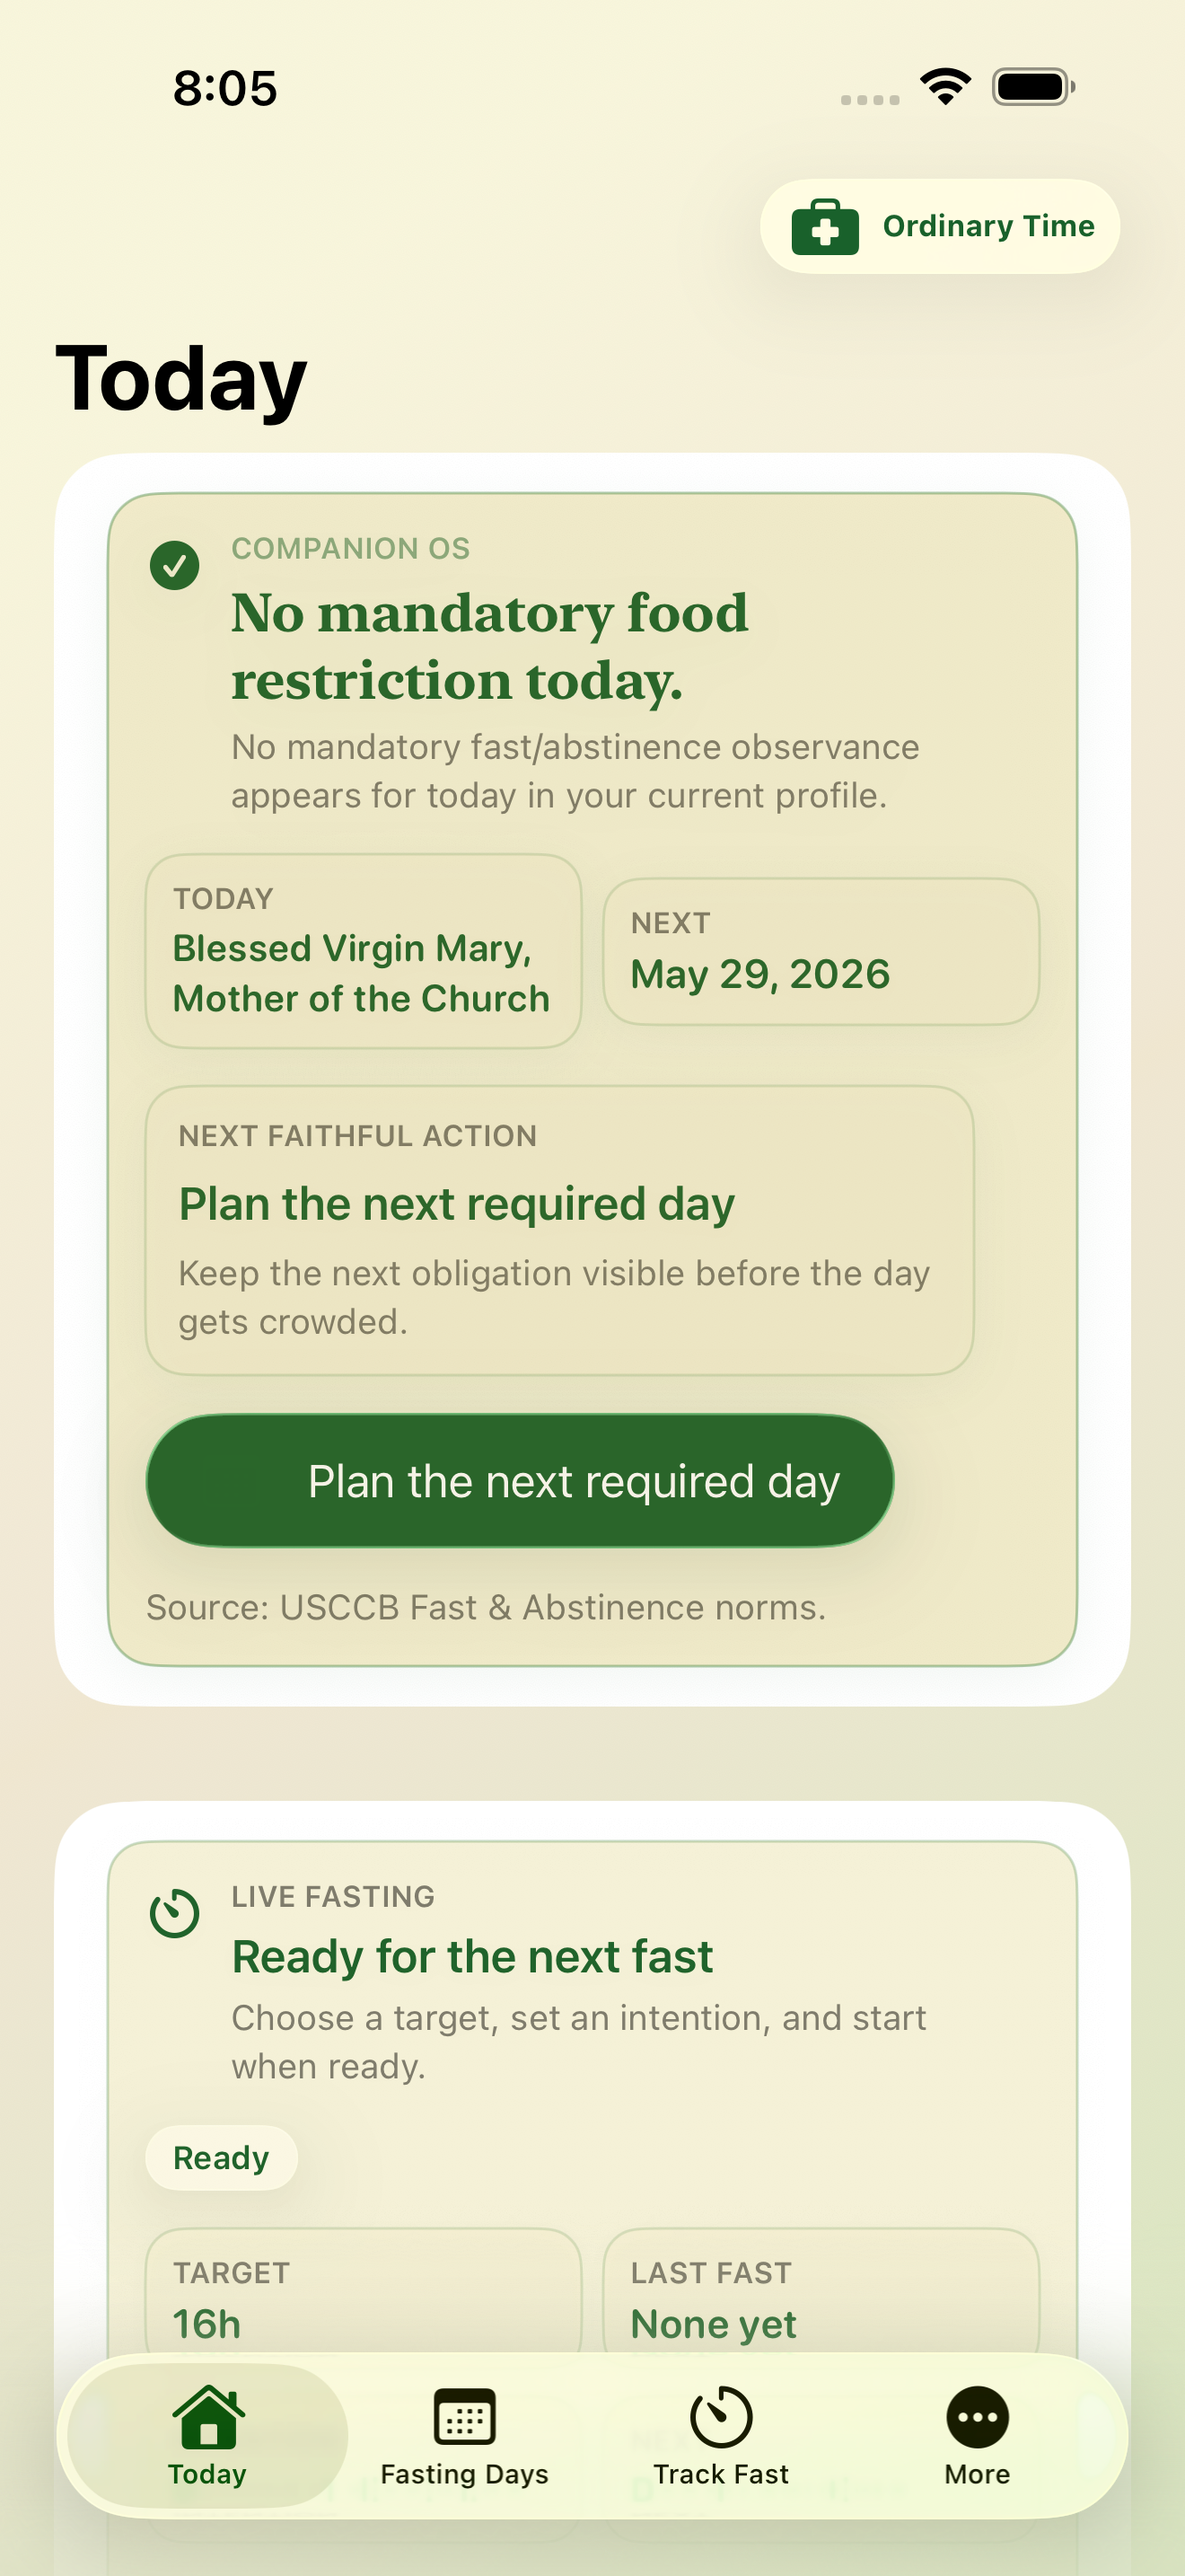
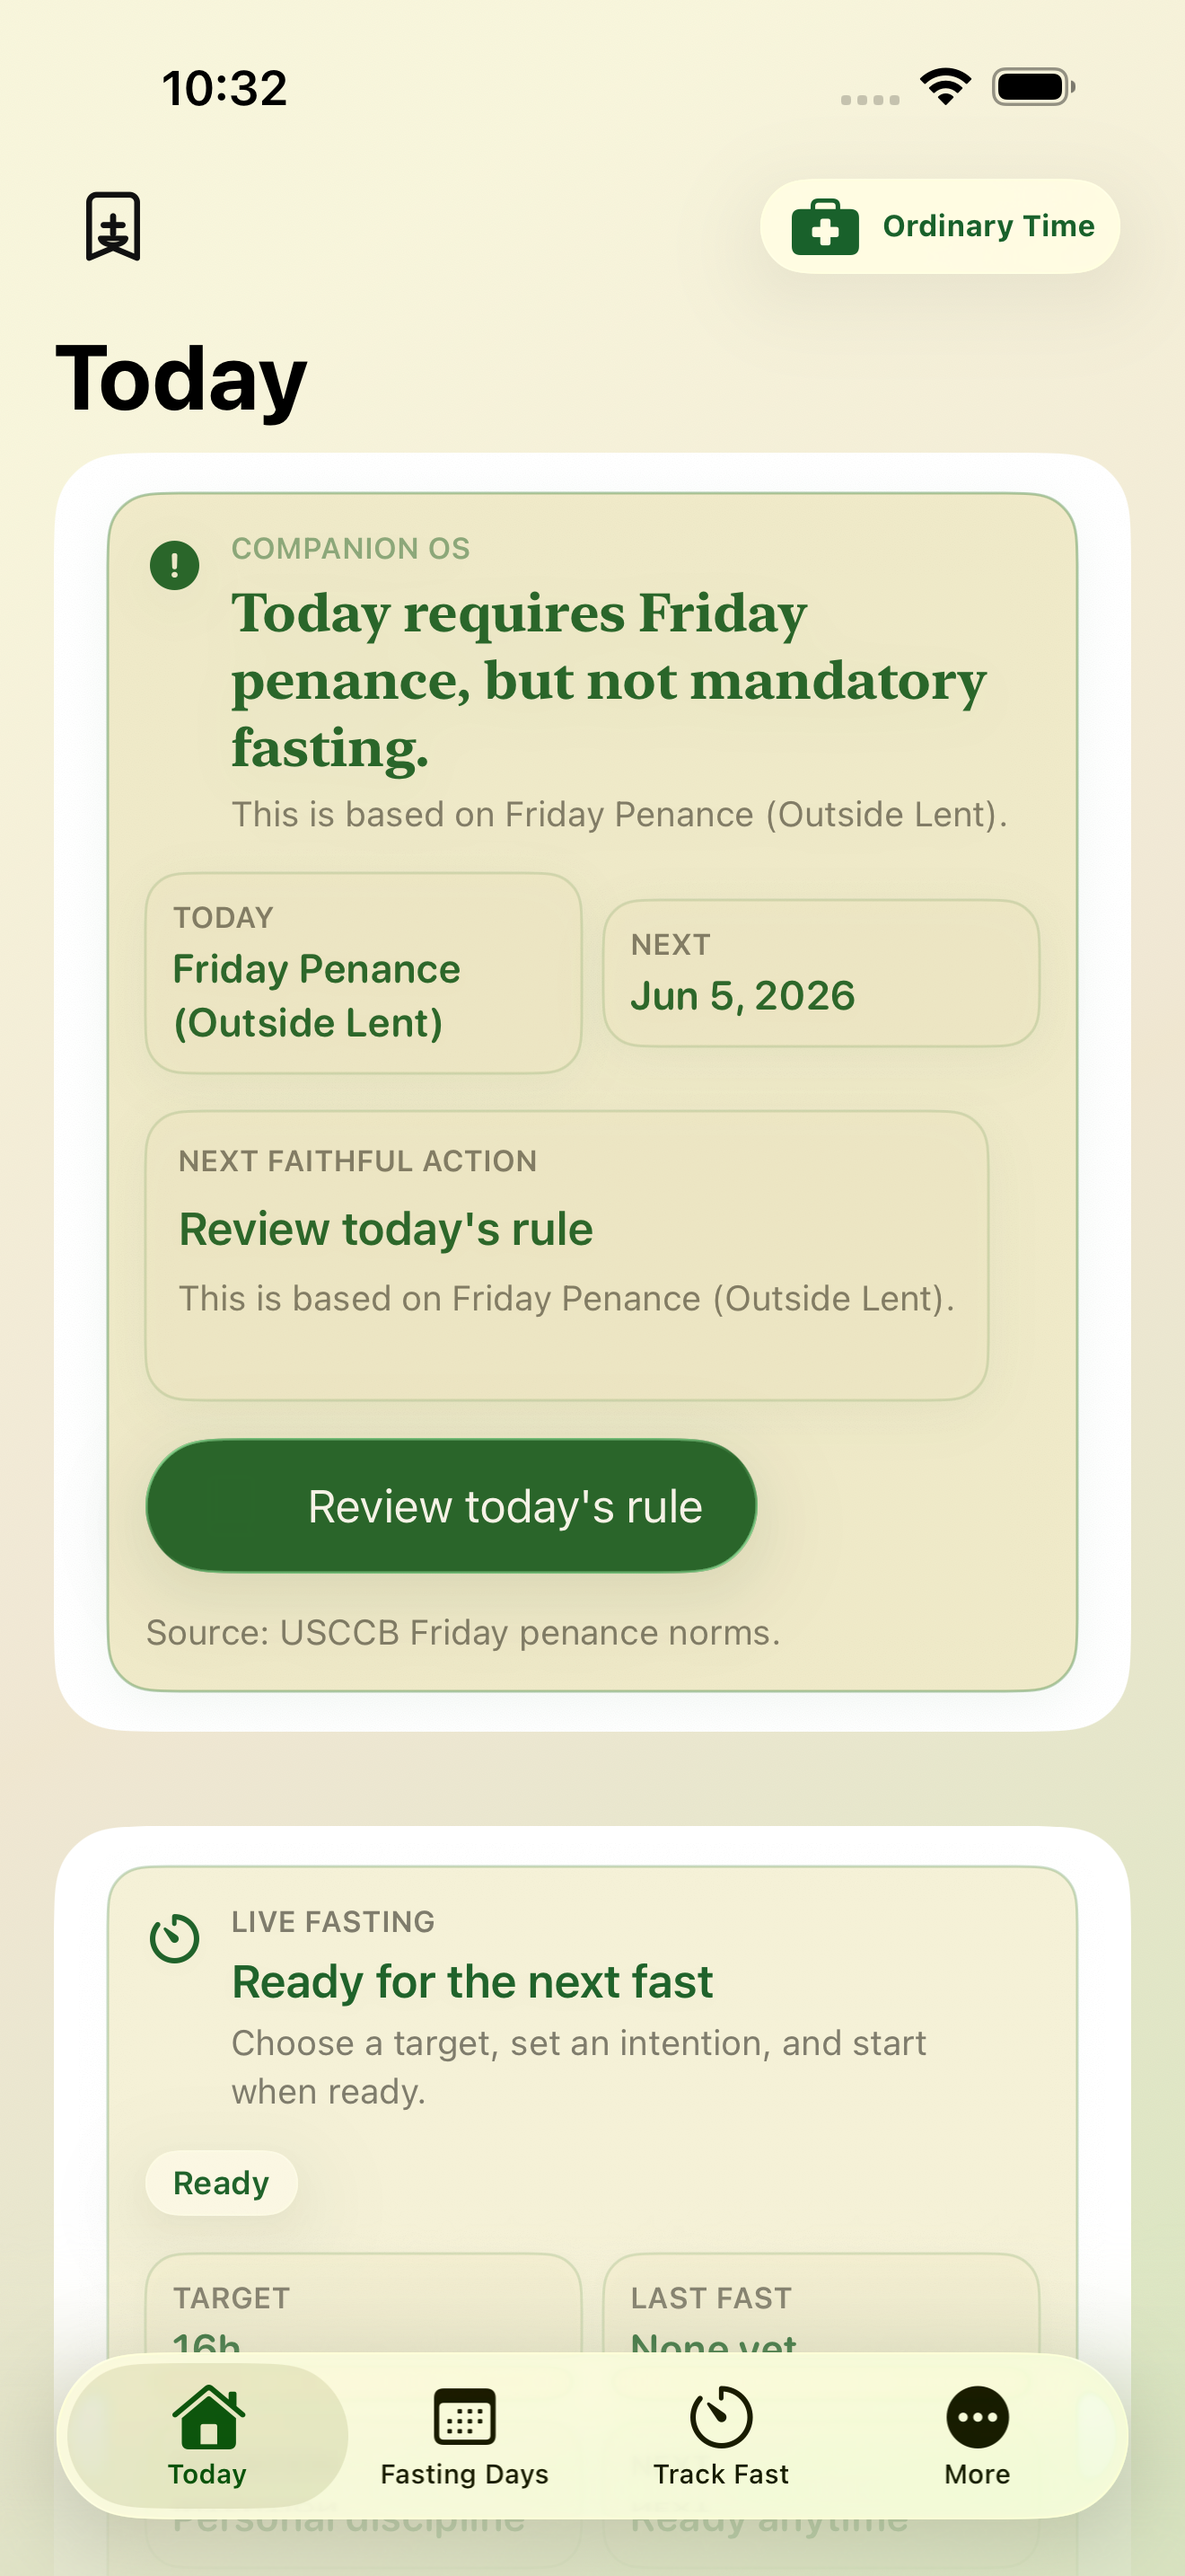
Add official Catholic fasting brand mark

diff --git a/CatholicFastingApp/ContentView+RootShell.swift b/CatholicFastingApp/ContentView+RootShell.swift
@@ -212,6 +212,11 @@ extension ContentView {
 
     @ToolbarContentBuilder
     var phoneTabToolbar: some ToolbarContent {
+        ToolbarItem(placement: .topBarLeading) {
+            phoneBrandMark
+        }
+        .sharedBackgroundVisibility(.hidden)
+
         ToolbarItem(placement: .topBarTrailing) {
             seasonBadge
         }
@@ -472,6 +477,17 @@ extension ContentView {
                 localizedSeason))
 
         content.appCapsuleGlass()
+    }
+
+    var phoneBrandMark: some View {
+        Image("CFAMark")
+            .resizable()
+            .renderingMode(.original)
+            .scaledToFit()
+            .frame(width: 30, height: 30)
+            .allowsHitTesting(false)
+            .accessibilityIdentifier("home.brand_mark")
+            .accessibilityLabel(localized("shared.app_title", default: "Catholic Fasting"))
     }
 
     var todaySurfaceList: some View {

diff --git a/DESIGN.md b/DESIGN.md
@@ -105,10 +105,19 @@ The system rejects generic fasting apps, productivity dashboards, aggressive str
 
 - Parchment-toned root backgrounds with seasonal liturgical color.
 - Native SwiftUI controls, glass buttons, platform navigation, and system type.
+- Official app mark: the D3 liturgical bookmark/ribbon direction, pairing a cross with an empty bowl/plate so the brand reads as Catholic fasting rather than generic church or generic fasting.
 - Serif titles reserved for devotional or reflective emphasis.
 - Rounded, lightly bordered surfaces with low shadow and tonal depth.
 - Sacred imagery used as a surface anchor, not as filler.
 - Clear citations, rationale, localization, and accessibility identifiers treated as product features.
+
+### Brand Mark
+
+The official app mark is the D3 direction selected on May 29, 2026: a compact liturgical bookmark or calendar-ribbon silhouette with a cross and an empty bowl/plate. It represents guided Catholic fasting across the Church year. The mark should be simple, black or single-color by default, and strong enough to remain legible at 24-32 px in an iOS toolbar.
+
+Use the mark as subtle page identity, not as a large banner or decorative header. It may sit in the top whitespace or toolbar area near the seasonal context, but it should not compete with the page title or primary action. The mark must remain compatible with changing liturgical palettes, so avoid hard-coding it to Ordinary Time green, gold, or any season-specific color unless a specific themed variant is intentionally designed.
+
+Do not replace the mark with large "CFA" letters, a generic chapel/window, a cross-only symbol, a crescent-like C form, or a fasting icon that loses Catholic specificity. If the mark is refined later, preserve the core read: Catholic calendar guidance plus fasting practice.
 
 ### Design QA Handoff
 

diff --git a/PRODUCT.md b/PRODUCT.md
@@ -22,6 +22,12 @@ The voice is calm, reverent, practical, and transparent. It should feel like a t
 
 Three-word personality: calm, reverent, practical.
 
+## Brand Identity
+
+The official app mark is the D3 liturgical bookmark/ribbon direction selected on May 29, 2026. It combines a cross with an empty bowl or plate so the product reads as specifically Catholic fasting, not a generic church app and not a generic fasting tracker.
+
+The mark should be used with restraint as a small identity signal in the app chrome and marketing materials. It should usually render in black or a single neutral color so it works across changing liturgical seasons. Do not substitute large "CFA" lettering, seasonal green-only marks, crescent-like C forms, generic chapel icons, or cross-only marks for the official identity.
+
 ## Anti-references
 
 - Do not make the app feel like a generic wellness, fasting, diet, biohacking, or productivity tracker.
